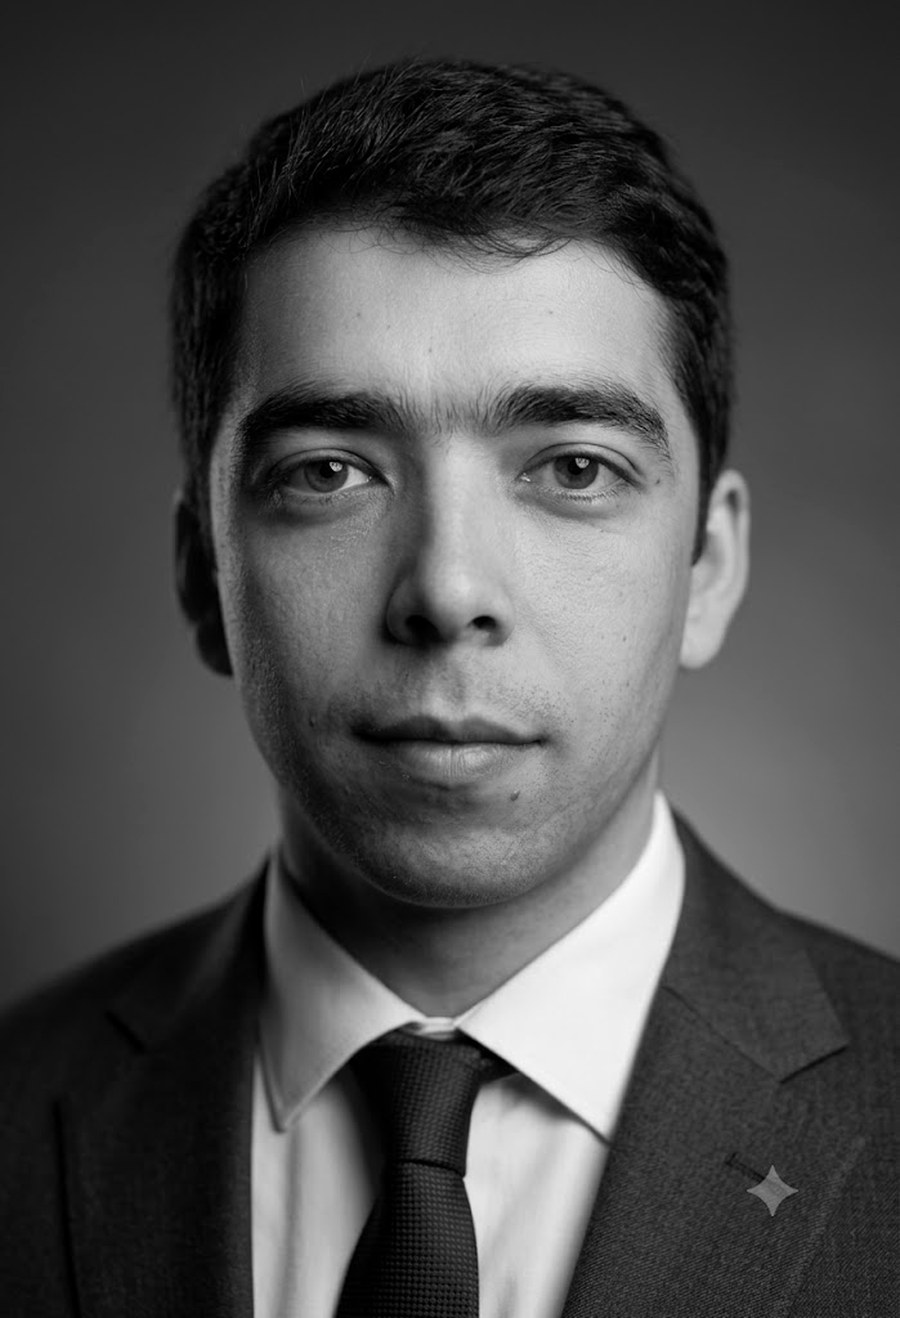
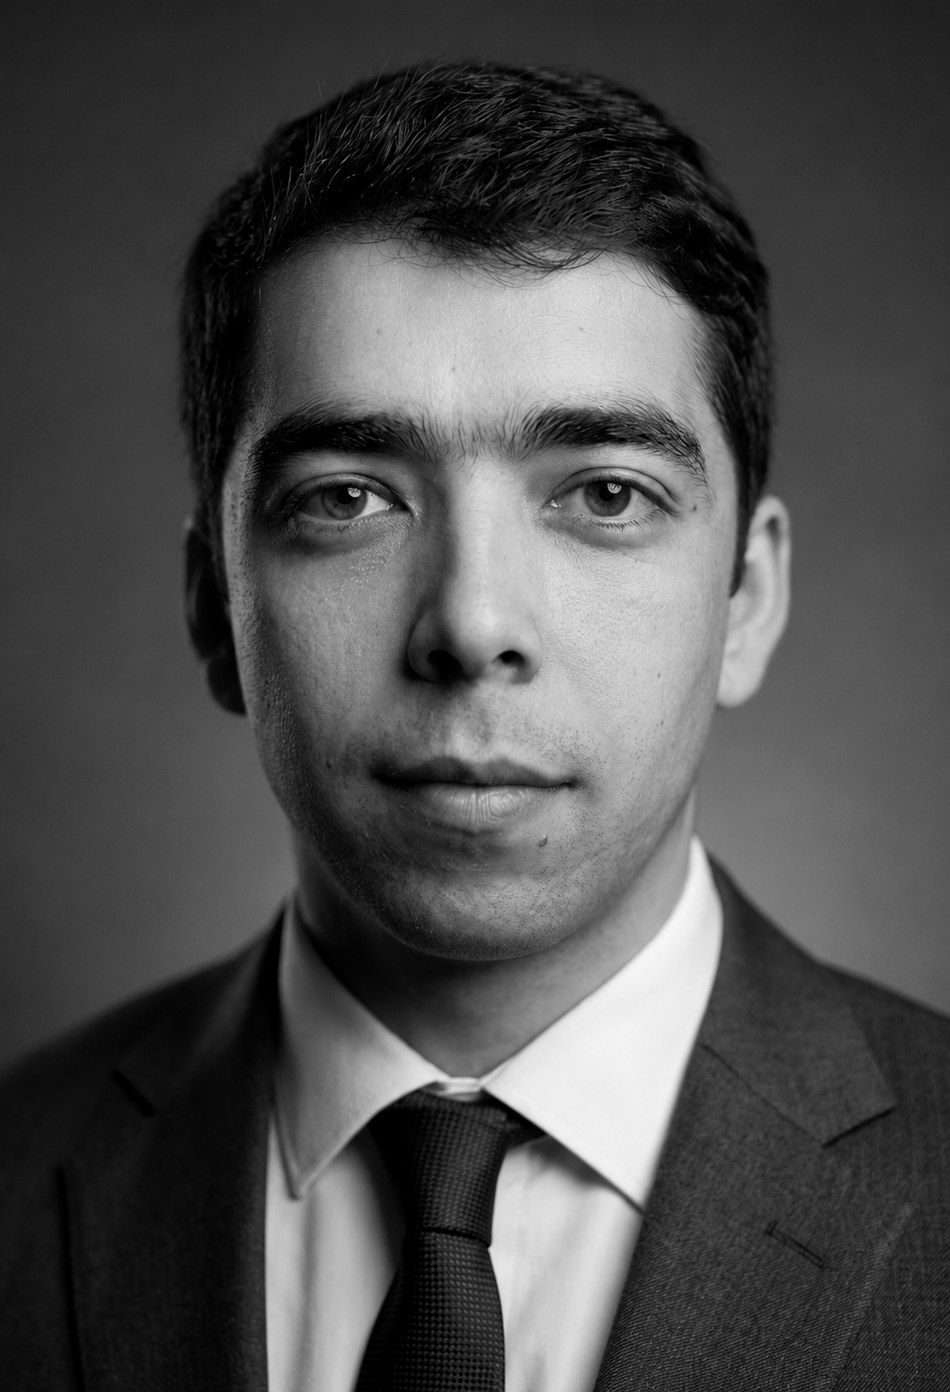
Update portrait and regroup the skills section
- Replace the hero portrait with a higher-resolution source (950x1392,
  greyscaled to match the palette, EXIF stripped) and match the frame
  aspect exactly so nothing is cropped
- Present skills as one grouped panel instead of nine look-alike cards:
  easier to scan, and long groups no longer balloon a single tile
- Show a per-group count and a total in the section lead

diff --git a/src/components/Skills.jsx b/src/components/Skills.jsx
@@ -2,30 +2,49 @@ import { skillGroups } from '../data/site'
 import Rise from './Rise'
 import Section from './Section'
 
+const total = skillGroups.reduce((n, g) => n + g.tags.length, 0)
+
 export default function Skills() {
   return (
     <Section
       id="skills"
       label="Skills"
       title="Tools and technologies"
-      lead="What I reach for across AI, backend and infrastructure work."
+      lead={`${total} technologies across ${skillGroups.length} areas of AI, backend and infrastructure work.`}
     >
-      <div className="grid gap-3 sm:grid-cols-2 lg:grid-cols-3">
-        {skillGroups.map(({ title, tags }, i) => (
-          <Rise key={title} delay={i * 40} className="h-full">
-            <div className="card h-full p-6">
-              <h3 className="font-display text-sm font-semibold text-ink">{title}</h3>
-              <ul className="mt-4 flex flex-wrap gap-2">
+      {/* One panel of grouped rows rather than a grid of look-alike cards —
+          easier to scan and it stops long groups from ballooning a tile. */}
+      <Rise className="card p-2 sm:p-3">
+        <ul>
+          {skillGroups.map(({ title, tags }, i) => (
+            <li
+              key={title}
+              className={`rounded-2xl px-4 py-5 transition-colors duration-200 hover:bg-card-2 sm:grid sm:grid-cols-[12rem_1fr] sm:gap-8 sm:px-6 ${
+                i < skillGroups.length - 1 ? 'border-b border-edge' : ''
+              }`}
+            >
+              <h3 className="font-display text-sm font-semibold text-ink">
+                {title}{' '}
+                <span className="ml-1 font-sans text-xs font-normal text-ink-faint">
+                  <span className="sr-only">— </span>
+                  {tags.length}
+                  <span className="sr-only">
+                    {tags.length === 1 ? ' technology' : ' technologies'}
+                  </span>
+                </span>
+              </h3>
+
+              <ul className="mt-3 flex flex-wrap gap-2 sm:mt-0">
                 {tags.map(t => (
                   <li key={t} className="chip">
                     {t}
                   </li>
                 ))}
               </ul>
-            </div>
-          </Rise>
-        ))}
-      </div>
+            </li>
+          ))}
+        </ul>
+      </Rise>
     </Section>
   )
 }

diff --git a/src/components/Hero.jsx b/src/components/Hero.jsx
@@ -58,10 +58,10 @@ export default function Hero() {
               {/* Native 2:3 aspect — the frame matches the photo so nothing is cropped. */}
               <img
                 src={avatar}
-                width="900"
-                height="1318"
+                width="950"
+                height="1392"
                 alt={`Portrait of ${profile.name}`}
-                className="aspect-[900/1318] w-full rounded-[0.95rem] object-cover"
+                className="aspect-[950/1392] w-full rounded-[0.95rem] object-cover"
               />
             </div>
 
